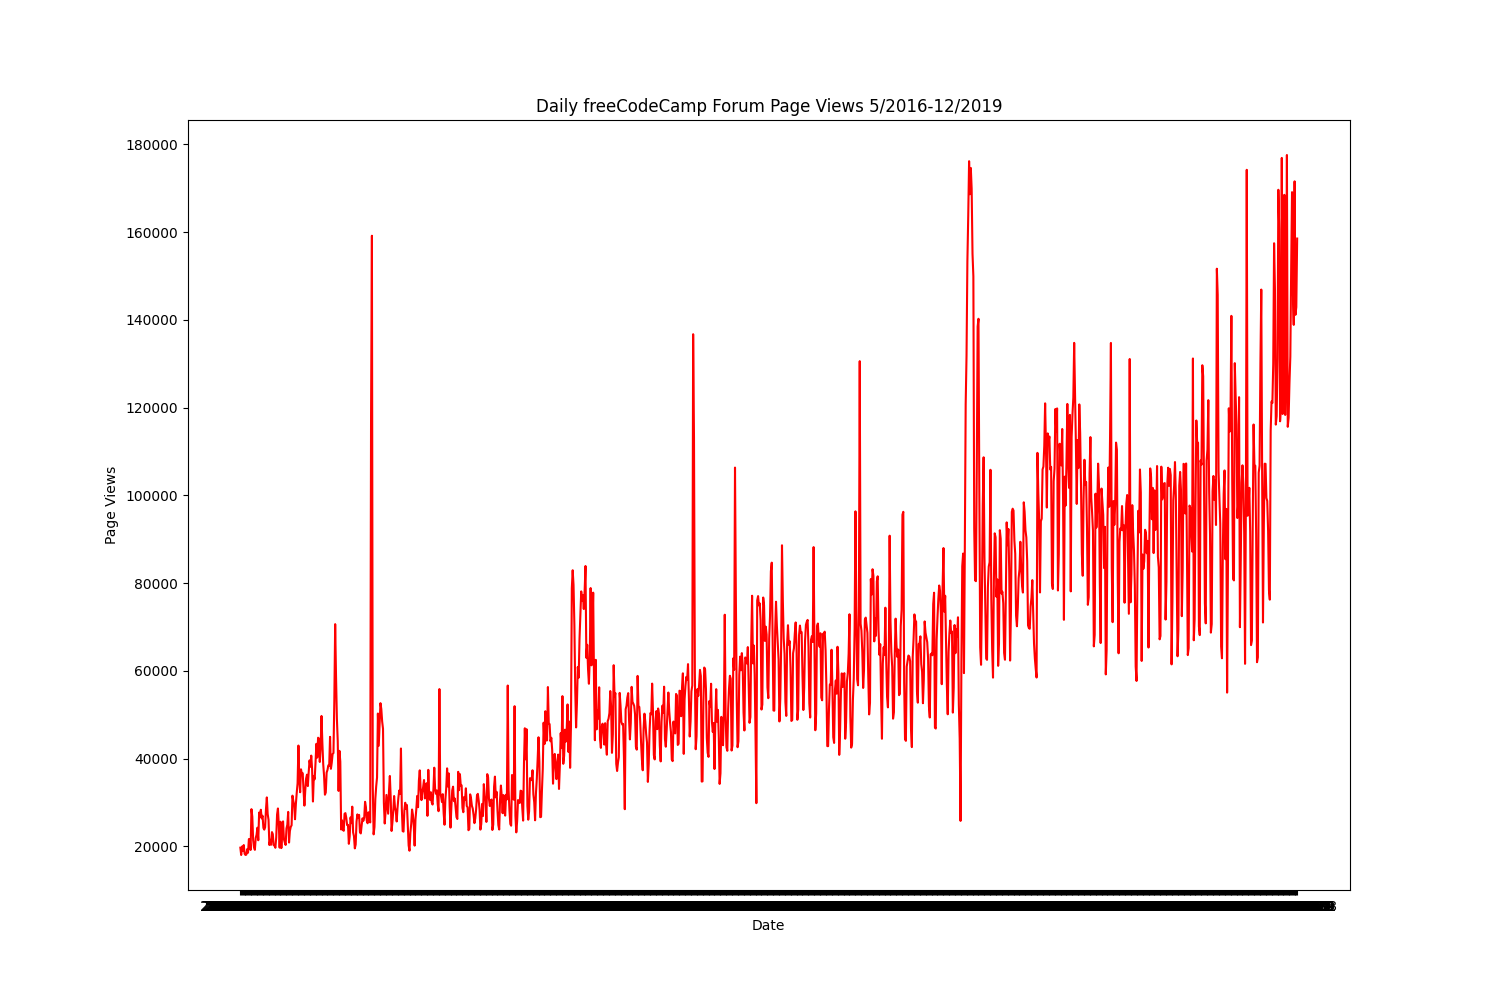
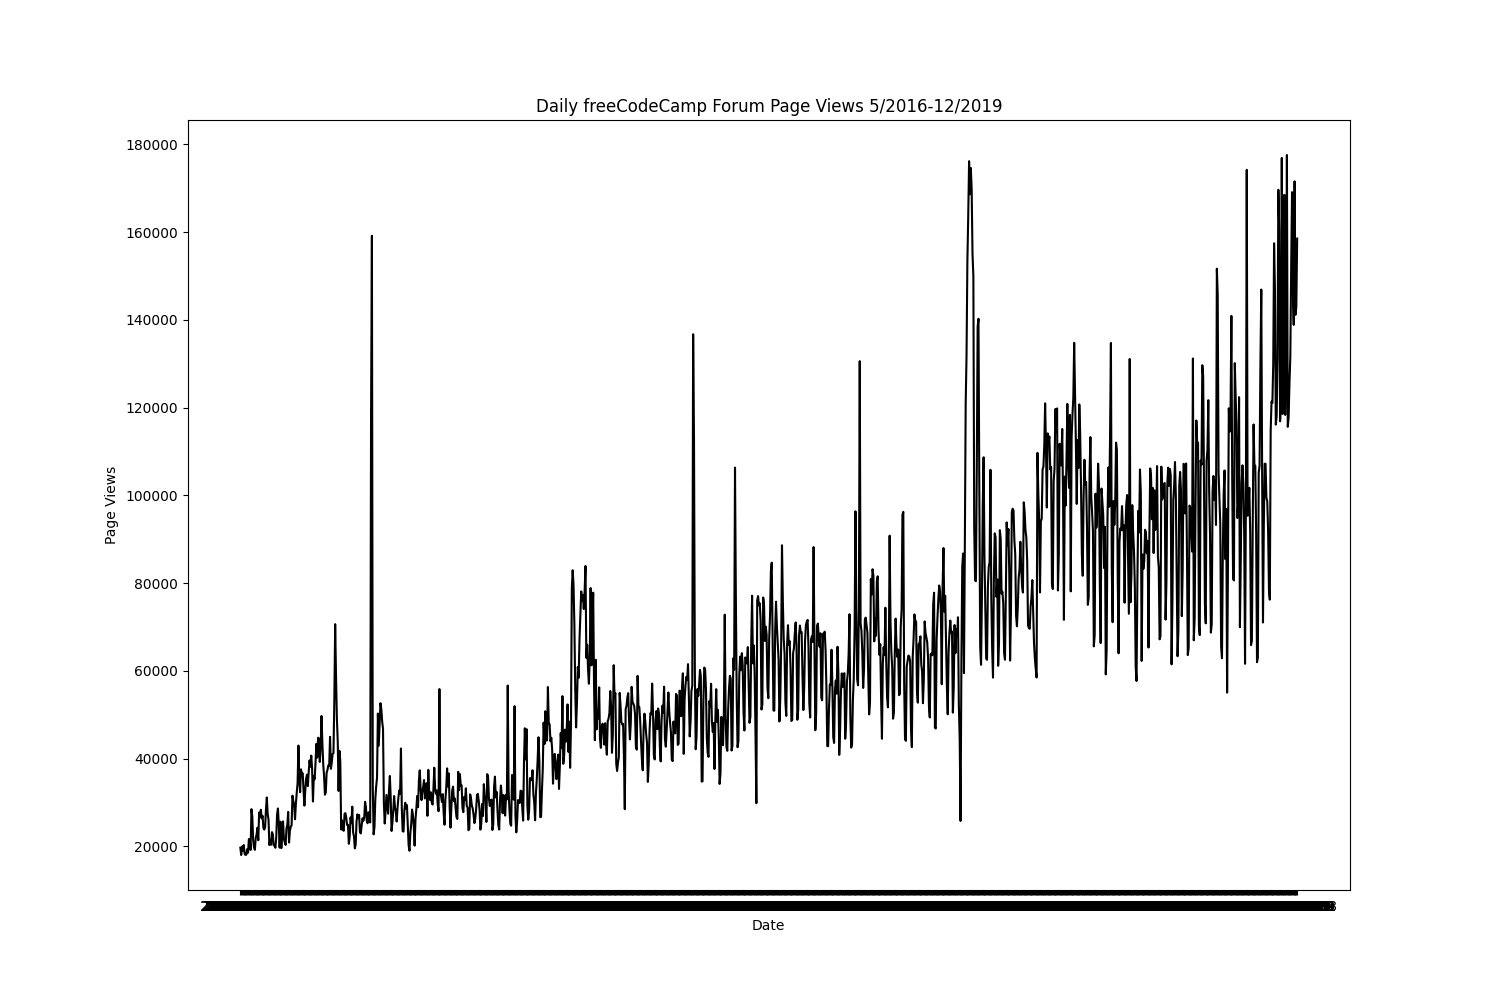
draw bar plot in pandas

Changed region(s): [[0.1533, 0.155, 0.8893, 0.868]]

diff --git a/boilerplate-page-view-time-series-visualizer/time_series_visualizer.py b/boilerplate-page-view-time-series-visualizer/time_series_visualizer.py
@@ -1,3 +1,5 @@
+from datetime import datetime
+
 import matplotlib.pyplot as plt
 import pandas as pd
 import seaborn as sns
@@ -12,17 +14,16 @@ df = df[
         (df['value'] >= (df['value'].quantile(0.025))) & 
         (df['value'] <= (df['value'].quantile(0.975)))   
        ]
-print(df)
 
 def draw_line_plot():
     # Draw line plot
     fig = plt.figure(figsize=(15,10))
-    plt.plot(df.index, df['value'],color='red')
+    plt.plot(df.index, df['value'],color='black')
     plt.title('Daily freeCodeCamp Forum Page Views 5/2016-12/2019')
     plt.xlabel('Date')
     plt.ylabel('Page Views')
 
-    Save image and return fig (don't change this part)
+    # Save image and return fig (don't change this part)
     fig.savefig('line_plot.png')
     return fig
 
@@ -30,23 +31,39 @@ def draw_line_plot():
 def draw_bar_plot():
     # Copy and modify data for monthly bar plot
     df_bar = df.copy()
+    
+    df_bar.reset_index(inplace=True)
+    df_bar['date'] = pd.to_datetime(df_bar['date'])
+    df_bar['year'] = [d.strftime('%Y') for d in df_bar.date]
+    df_bar['month'] = [d.strftime('%m') for d in df_bar.date]
 
+    # print(df_bar.dtypes)
+    # print(df_bar.month)
+    df_bar = df_bar.groupby(["year", "month"])["value"].mean()
+    df_bar = df_bar.unstack()
+
+    clist_new = ["Jan","Feb", "Mar", "Apr", "May","Jun","Jul","Aug", "Sep","Oct","Nov","Dec"]
+    df_bar = df_bar.set_axis(clist_new, axis=1, inplace=False)
+    # print(df_bar)
+    
     # Draw bar plot
-
-
-
-
+    fig = df_bar.plot(kind ="bar", legend = True, figsize = (15,10)).figure
+    plt.xlabel("Year", fontsize= 10)
+    plt.ylabel("Average Page Views", fontsize= 10)
+    plt.legend(fontsize = 10, title="Month",labels=["January","February", "March", "April", "May","June","July","August", "September","October","November","December"])
 
     # Save image and return fig (don't change this part)
     fig.savefig('bar_plot.png')
     return fig
 
+
 def draw_box_plot():
     # Prepare data for box plots (this part is done!)
     df_box = df.copy()
     df_box.reset_index(inplace=True)
-    df_box['year'] = [d.year for d in df_box.date]
-    df_box['month'] = [d.strftime('%b') for d in df_box.date]
+    df_box['year'] = [datetime.strftime(d.year) for d in df_box['date']]
+    # df_box['month'] = [d.strftime('%m') for d in df_box['date']]
+    # datetime.strftime()
 
     # Draw box plots (using Seaborn)
 
@@ -55,5 +72,5 @@ def draw_box_plot():
 
 
     # Save image and return fig (don't change this part)
-    fig.savefig('box_plot.png')
-    return fig
+    # fig.savefig('box_plot.png')
+    # return fig
